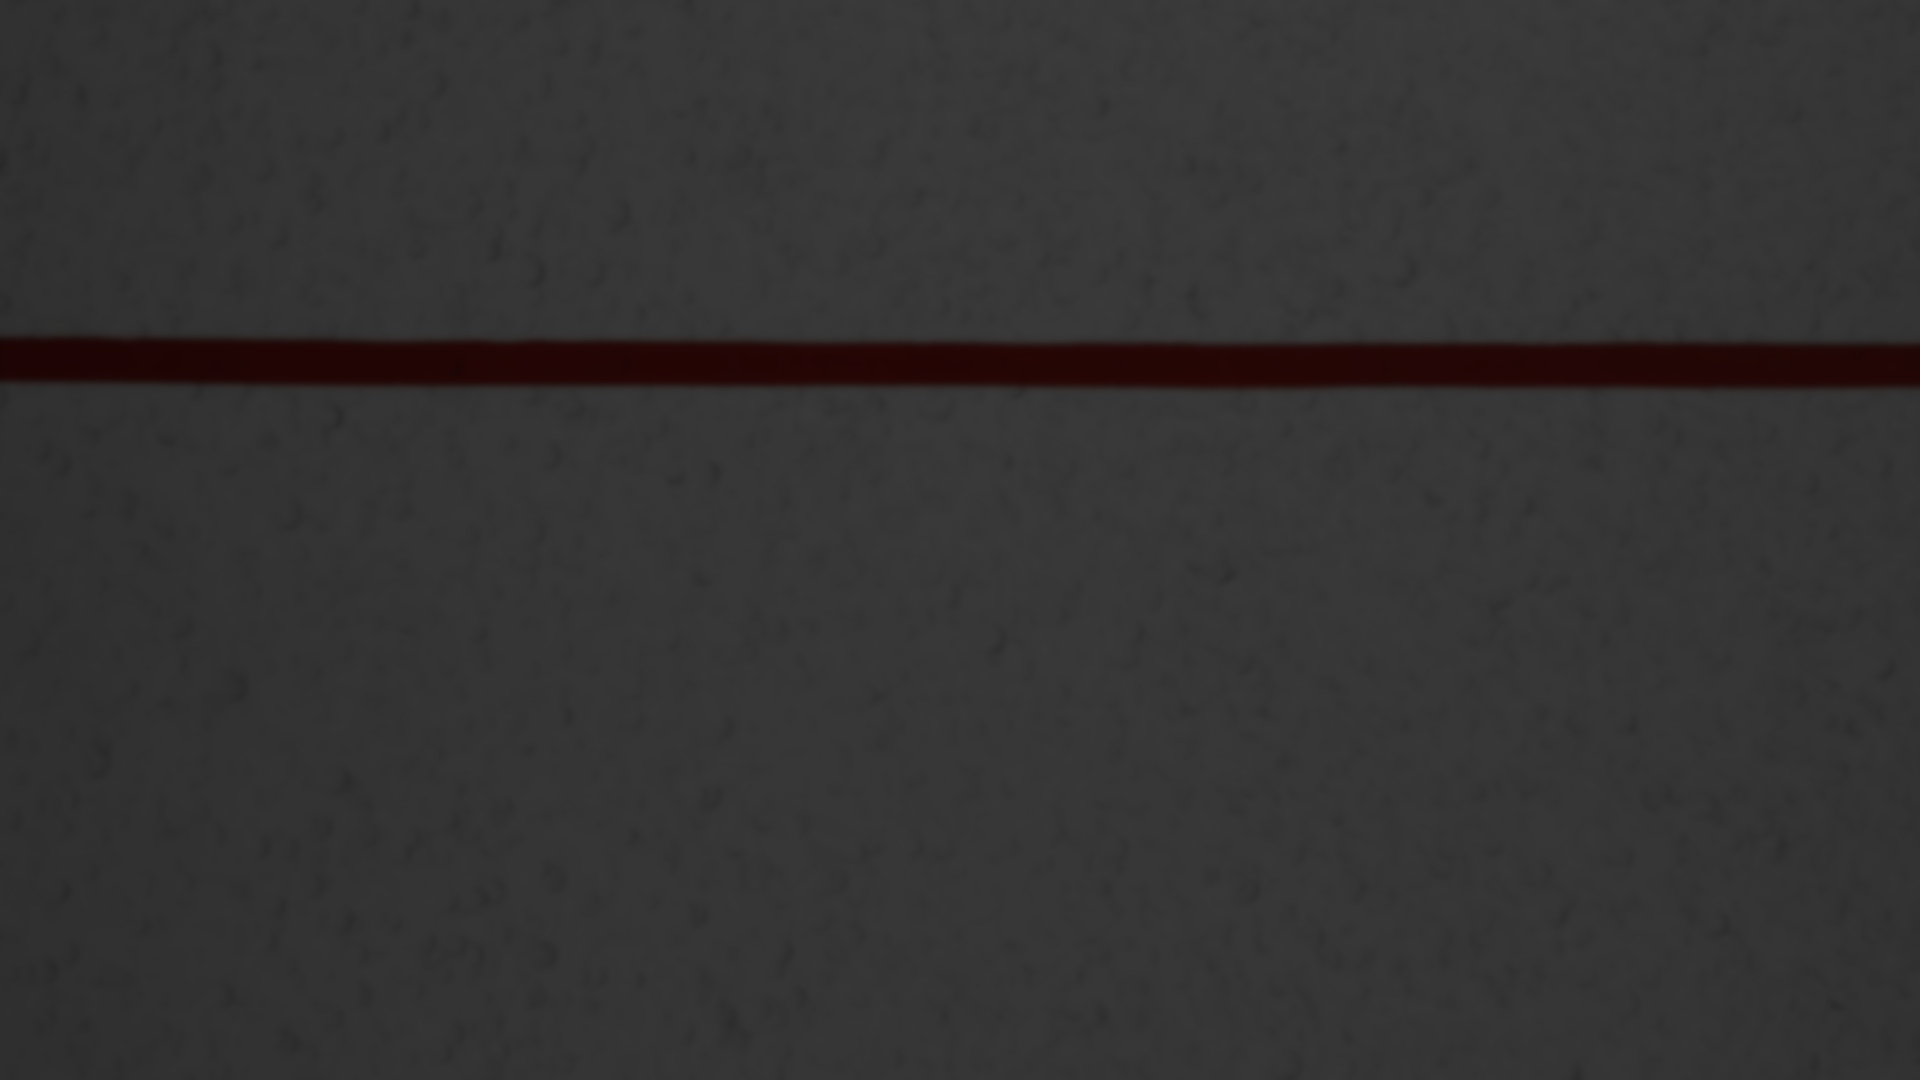
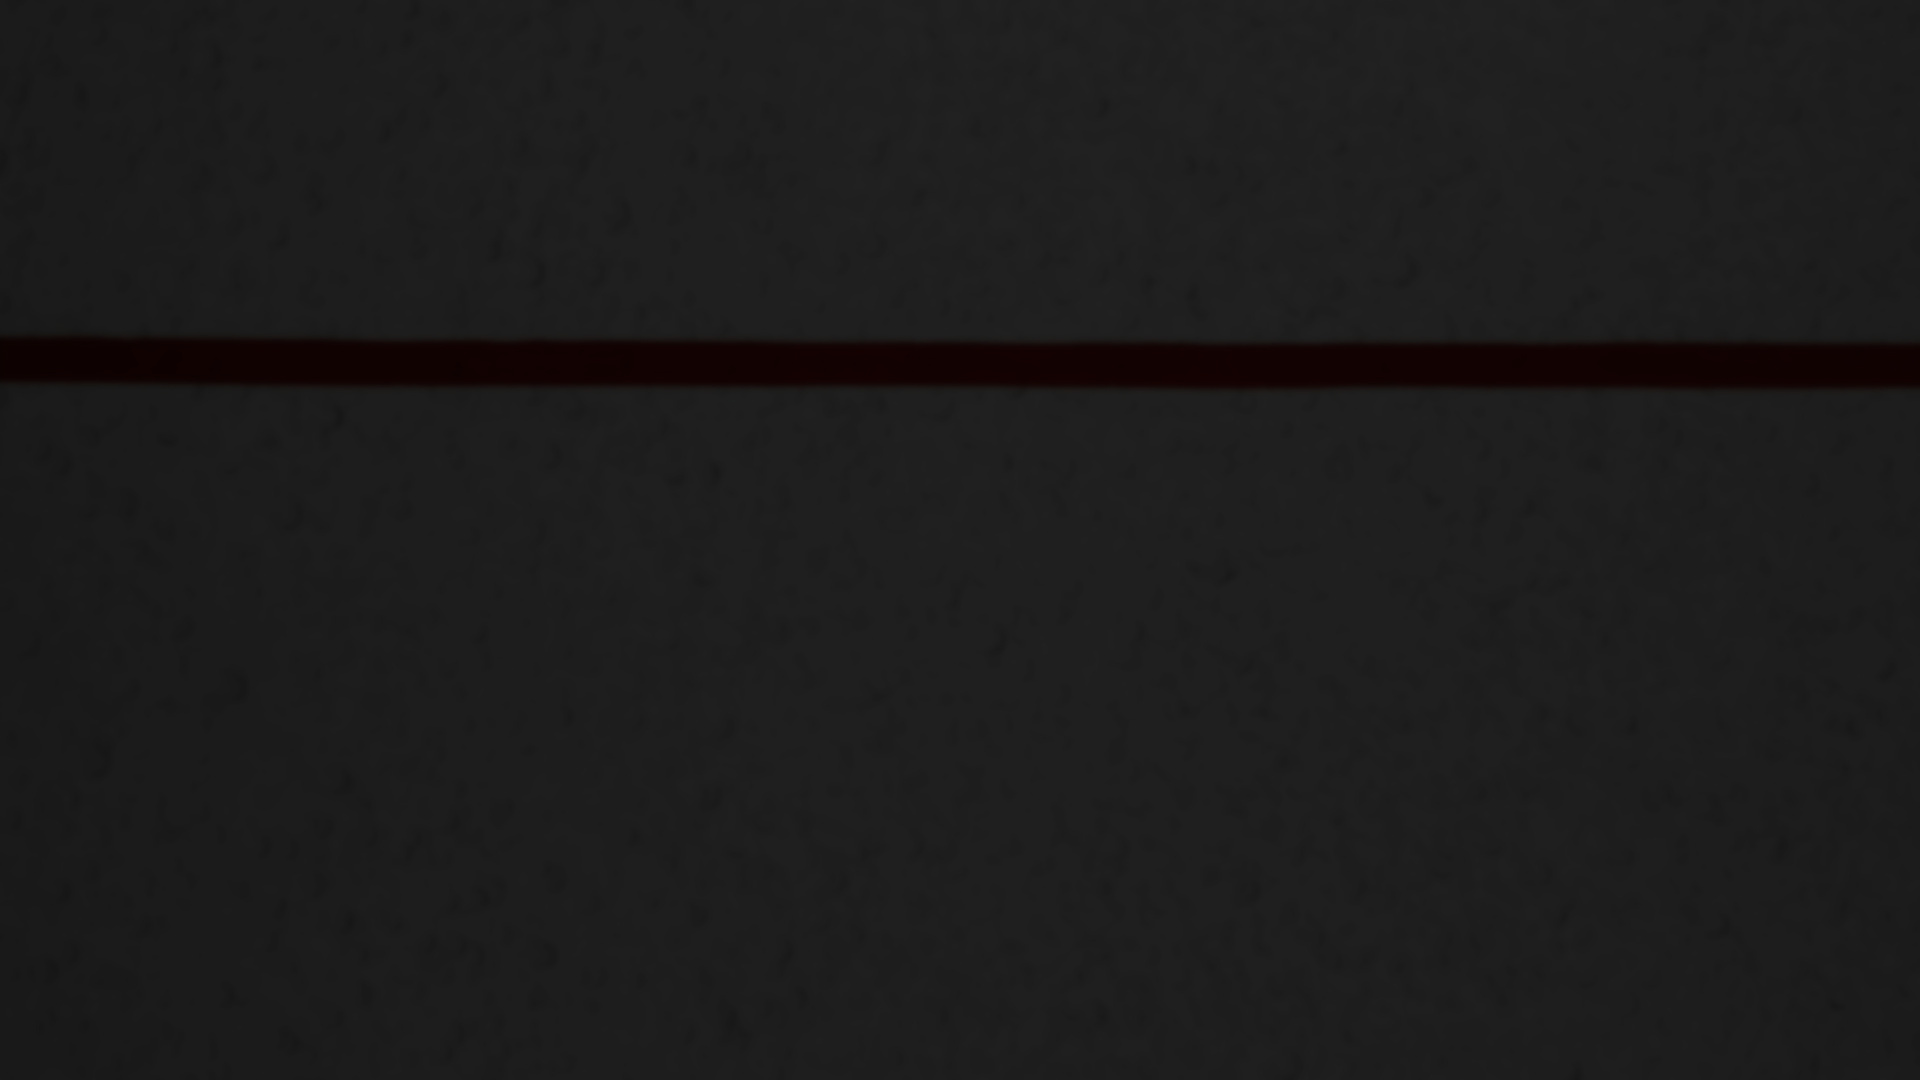
Text fixes. Coloring fixes.

diff --git a/src/app.py b/src/app.py
@@ -8,7 +8,7 @@ import seaborn as sn
 import streamlit as st
 from pyinstrument import Profiler
 
-from utils.extraction import load_matches, load_rankings, load_tournaments
+from utils.extraction import load_matches, load_rankings, load_tournaments, _get_latest_pickle_date
 from utils.general import add_bg_from_local, convert_df_to_csv, hide_table_row_index
 from utils.styles import *
 
@@ -60,12 +60,13 @@ author_container.markdown(
     > Connect on [https://linkedin.com/in/ilmarivikstrom](https://linkedin.com/in/ilmarivikstrom)
     """
 )
+
 author_container.markdown("---")
 
 introduction_container = st.container()
 introduction_container.markdown(
     """
-    # Introduction
+    # 1. Introduction
     In 2021, [Finnish Squash Association (FSA) reported](https://www.squash.fi/Hallitutkimus+2021) that the Finnish squash scene had experienced significant growth during the past three years. A year later, FSA presented [encouraging study results](https://www.squash.fi/Squashin+kiinnostus+kasvussa) about the increased interest in squash in Finland.
     
     The key takeaways from the articles are the following:
@@ -99,7 +100,7 @@ introduction_container.markdown("---")
 loading_container = st.container()
 loading_container.markdown(
     """
-    # Loading and pre-processing the Club Locker tournament data
+    # 2. Loading and pre-processing the Club Locker tournament data
     Before any analysis can take place, we need to fetch and pre-process fresh data from the Club Locker service. This happens automatically in the background, so you do not need to do anything.
 
     It should be noted, that **only tournament data is considered** in this study. This means that league matches, box league matches, etc., are omitted from the dataset.
@@ -125,26 +126,41 @@ loading_container.success("⬇ All data has been fetched. Let's move on! ⬇")
 loading_container.markdown("---")
 
 
-sb_col1, sb_col2, sb_col3 = st.sidebar.columns(3)
-sb_col1.markdown("### Tournament data")
-sb_col1.download_button(
-    label="⬇ Download ⬇",
+
+st.sidebar.markdown(
+    """
+    # Table of Contents
+    - [1. Introduction](#1-introduction)
+    - [2. Loading and Pre-Processing the Club Locker Tournament Data](#2-loading-and-pre-processing-the-club-locker-tournament-data)
+    - [3. Overview of the Tournament Data](#3-overview-of-the-tournament-data)
+      - [3.1 First things first: some fun statistics](#3-1-first-things-first-some-fun-statistics)
+      - [3.2 Down to business: Participation in squash tournaments over time](#3-2-down-to-business-participation-in-squash-tournaments-over-time)
+
+    ---
+    """
+)
+
+st.sidebar.markdown(
+    """
+    #### Interested in the datasets? Download from here.
+    """
+)
+st.sidebar.download_button(
+    label="Tournament data",
     data=convert_df_to_csv(tournaments_df),
-    file_name=f"tournaments_{str(current_date)}.csv",
+    file_name=f"tournaments_{str(_get_latest_pickle_date('data/tournaments*'))}.csv",
     mime="text/csv",
 )
-sb_col2.markdown("### Match data")
-sb_col2.download_button(
-    label="⬇ Download ⬇",
+st.sidebar.download_button(
+    label="Match data",
     data=convert_df_to_csv(matches_df),
-    file_name=f"matches_{str(current_date)}.csv",
+    file_name=f"matches_{str(_get_latest_pickle_date('data/matches*'))}.csv",
     mime="text/csv",
 )
-sb_col3.markdown("### Ranking data")
-sb_col3.download_button(
-    label="⬇ Download ⬇",
+st.sidebar.download_button(
+    label="Ranking data",
     data=convert_df_to_csv(rankings_df),
-    file_name=f"rankings_{str(current_date)}.csv",
+    file_name=f"rankings_{str(_get_latest_pickle_date('data/rankings*'))}.csv",
     mime="text/csv",
 )
 
@@ -153,9 +169,13 @@ tournament_container = st.container()
 
 tournament_container.markdown(
     f"""
-    ## Overview of the tournament data
+    # 3. Overview of the tournament data
 
-    Club Locker history contains **{len(tournaments_df)}** tournaments and **{len(matches_df)}** matches. Let's start with some fun statistics:
+    In this section, we are taking a general look on the tournament data.
+
+    #### 3.1 First things first: some fun statistics
+
+    Club Locker history contains **{len(tournaments_df)}** tournaments and **{len(matches_df)}** matches. Here are some cool insights:
     
     - Total number of games: **{matches_df["NumberOfGames"].sum()}**
     - Total number of rallies: **{matches_df["Rallies"].sum()}**
@@ -171,7 +191,7 @@ tournament_container.markdown(
 
 tournament_container.markdown(
     """
-    #### Participation in squash tournaments over time
+    #### 3.2 Down to business: Participation in squash tournaments over time
 
     The number of tournament participants is a great metric for gauging interest in competitive squash. Let's visualize the tournament participation by representing each tournament with a colored circle. The color signals if the tournament was held before or after the pandemic started.
     """
@@ -208,7 +228,7 @@ tournament_container.pyplot(fig)
 tournament_container.markdown(
     """
     Looking at the chart we can see a few different things. The first clear observation is that the largest tournaments were held in the pre-covid era. When taking a bit more careful look at the data, we can see the quiet summer breaks and the lockdown months. If we exclude the lockdown periods, the density of the tournament calendar seems to be relatively the same for the whole history.
-
+    
     The red line skewering the graph is a 2nd-order polynomial model fitted on the data. This model shows the general trend of tournament participation. The trend shows the harsh truth, which is that there has been a clear decreasing trend for a long time.
     """
 )
@@ -217,7 +237,6 @@ tournament_container.markdown(
 number_top_tournaments = 15
 tournament_container.markdown(
     f"""
-    \\
     Let's pick the top {number_top_tournaments} tournaments with the most participants in history!
     """
 )
@@ -258,7 +277,7 @@ wip_container.markdown("---")
 
 match_container = st.container()
 
-match_container.markdown("## Overview on the match data")
+match_container.markdown("## Overview of the match data")
 match_container.markdown("")
 match_container.markdown("### Match length distribution")
 match_container.markdown("")
@@ -420,7 +439,8 @@ player_container.markdown("### Individual player statistics based on tournament 
 unique_player_names = np.sort(
     pd.unique(matches_df[["vPlayerName", "hPlayerName"]].values.ravel("K"))
 )
-name = player_container.selectbox("Select a player", unique_player_names)
+unique_player_names = np.concatenate((["Select a player"], unique_player_names))
+name = player_container.selectbox("", unique_player_names)
 search_results = matches_df.loc[
     matches_df["vPlayerName"].str.contains(name, case=False)
     | matches_df["hPlayerName"].str.contains(name, case=False)

diff --git a/src/utils/general.py b/src/utils/general.py
@@ -24,6 +24,9 @@ def add_bg_from_local(image_file: str) -> None:
     st.markdown(
         f"""
     <style>
+    a {{
+        text-decoration: none;
+    }}
     html {{
         font-size: 110%;
     }}
@@ -39,7 +42,7 @@ def add_bg_from_local(image_file: str) -> None:
         background: linear-gradient(to up, #414345, #232526);
     }}
     .block-container {{
-        max-width: 70rem;
+        max-width: 66rem;
     }}
     img {{
         border-radius: 15px;
@@ -55,10 +58,10 @@ def add_bg_from_local(image_file: str) -> None:
         display: none;
     }}
     td {{
-        background: #222222bb;
+        background: #111111bb;
     }}
     th {{
-        background: #111111bb;
+        background: #000000bb;
     }}
     </style>
     """,
